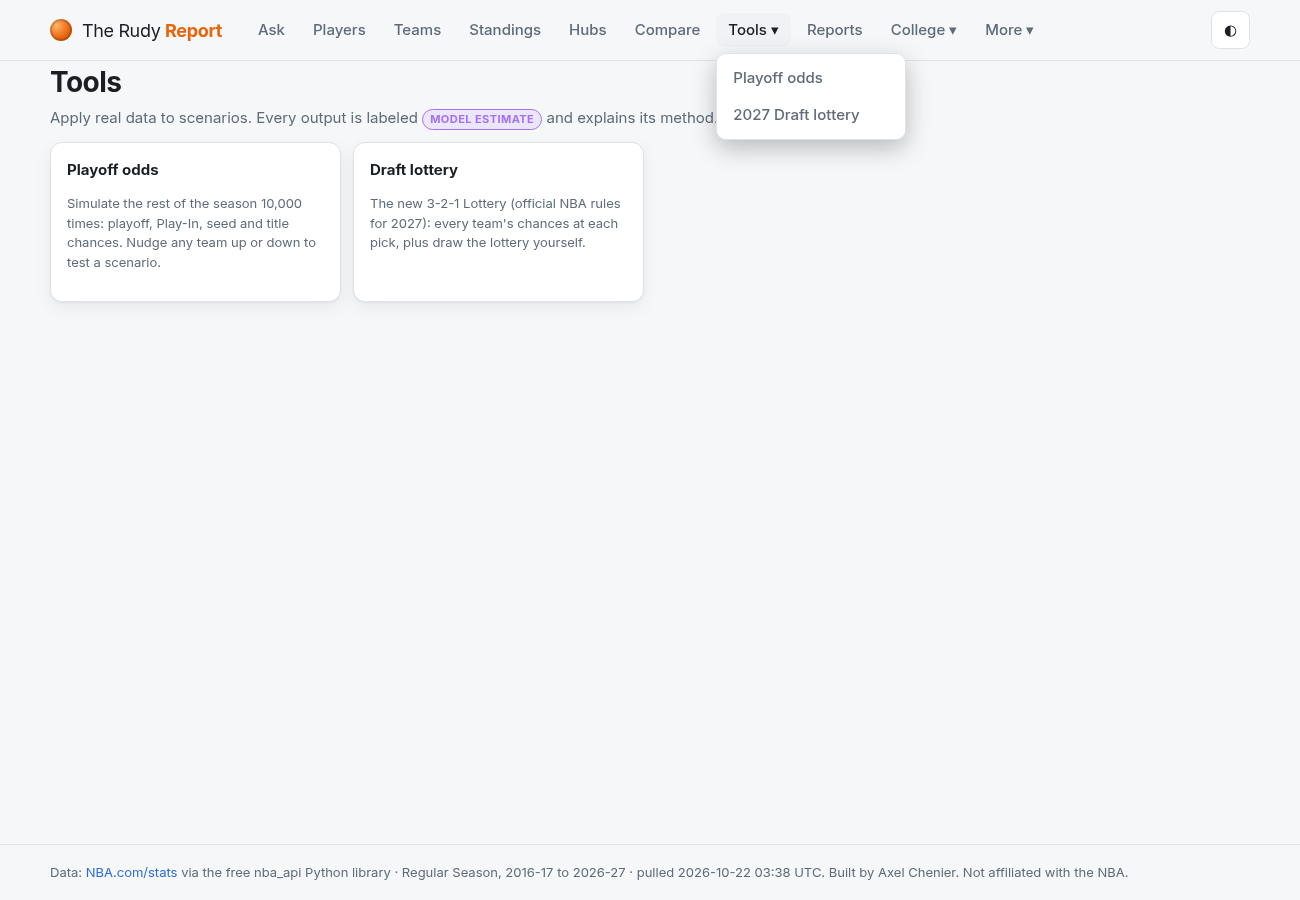
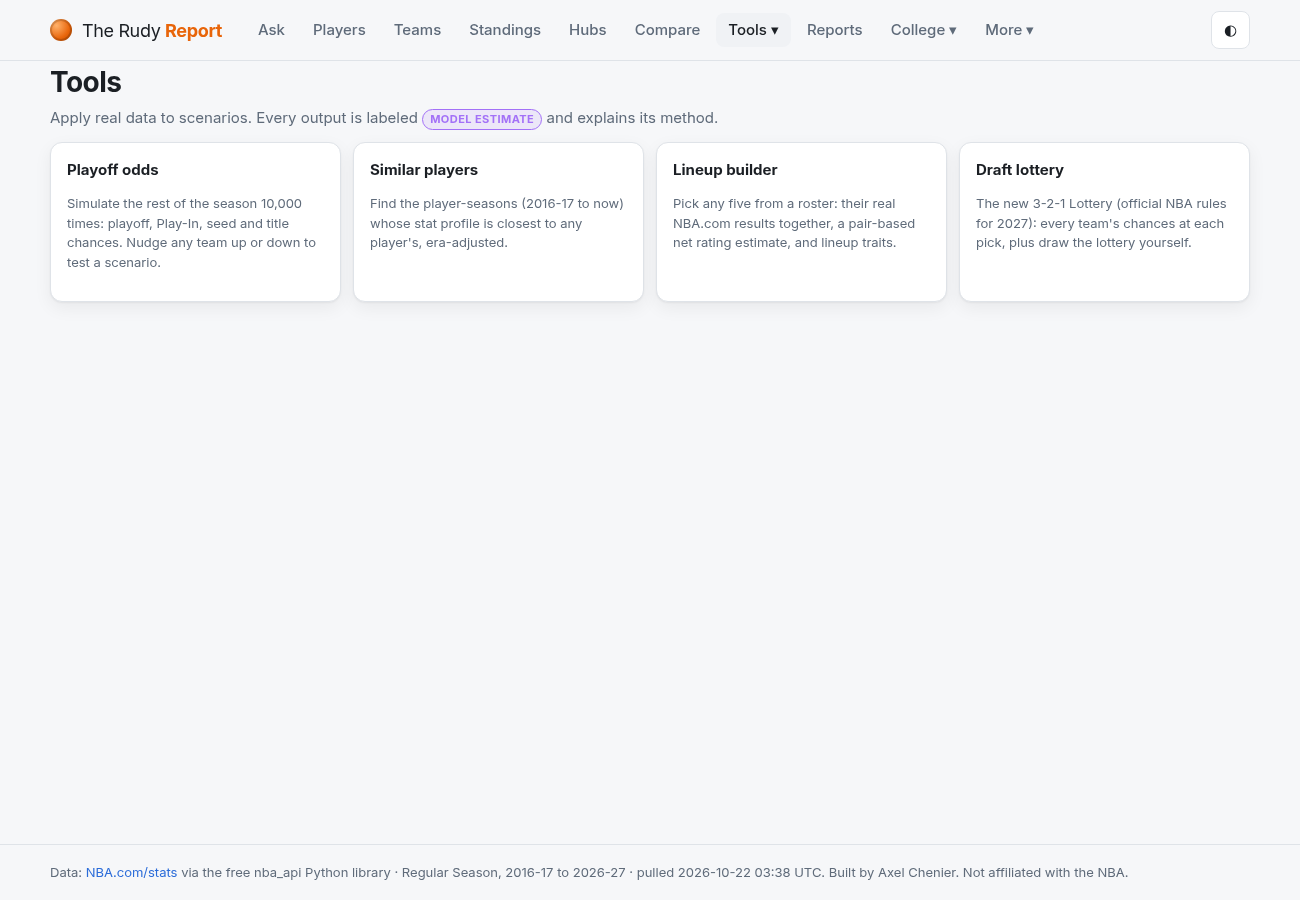
Lineup builder: any five from a roster, real NBA.com lineup results, pair-based net rating (Model estimate), lineup traits vs typical starting five

diff --git a/js/pages/builder.js b/js/pages/builder.js
@@ -1,0 +1,131 @@
+// builder.js - Lineup Builder (Tools page, #/tools/lineup). Pick any five players from a team's roster.
+//  - REAL: if NBA.com has that exact 5-man lineup (10+ minutes), its actual ratings are shown.
+//  - MODEL ESTIMATE: net rating estimated from the 10 two-man pairs inside it (NBA.com 2-man lineup data, 50+ minutes),
+//    each pair's net rating pulled toward the team's net rating by how few minutes it has; pairs with no data use the two
+//    players' on-court team net ratings (NBA.com on/off).
+//  - Lineup traits: sums/averages of the five players' real per-36 and rate stats, next to a typical NBA starting five.
+import { load, SEASONS, META } from "../data.js";
+import { fmt } from "../stats.js";
+import { esc, modelBadge, unpack } from "../ui.js";
+import { onOffRows } from "./lineups.js";
+
+const SHRINK = 300;          // minutes at which a pair's own net rating gets half the weight (the rest goes to the team's)
+const p36 = (p, k) => p.MIN ? p[k] / p.MIN * 36 : 0;
+const net = (v) => v == null ? "–" : `<span class="${v > 0 ? "pos" : v < 0 ? "neg" : ""}">${v > 0 ? "+" : ""}${v.toFixed(1)}</span>`;
+
+const TRAITS = [
+  ["Usage (sum of USG%)", (ps) => ps.reduce((a, p) => a + 100 * p.USG_PCT, 0), (v) => v.toFixed(0) + "%", "A real lineup's usage sums to about 100% (every possession ends with someone)."],
+  ["3PA per 36 (sum)", (ps) => ps.reduce((a, p) => a + p36(p, "FG3A"), 0), (v) => v.toFixed(1), "Spacing proxy: how many threes these five take per 36 minutes each."],
+  ["3P% (weighted)", (ps) => { const a = ps.reduce((s, p) => s + p.FG3A, 0); return a ? ps.reduce((s, p) => s + p.FG3M, 0) / a : 0; }, (v) => (100 * v).toFixed(1) + "%", ""],
+  ["True shooting % (avg)", (ps) => ps.reduce((a, p) => a + p.TS_PCT, 0) / ps.length, (v) => (100 * v).toFixed(1) + "%", ""],
+  ["Assists per 36 (sum)", (ps) => ps.reduce((a, p) => a + p36(p, "AST"), 0), (v) => v.toFixed(1), ""],
+  ["Turnovers per 36 (sum)", (ps) => ps.reduce((a, p) => a + p36(p, "TOV"), 0), (v) => v.toFixed(1), ""],
+  ["Rebounds per 36 (sum)", (ps) => ps.reduce((a, p) => a + p36(p, "REB"), 0), (v) => v.toFixed(1), ""],
+  ["Blocks per 36 (sum)", (ps) => ps.reduce((a, p) => a + p36(p, "BLK"), 0), (v) => v.toFixed(1), ""],
+  ["Steals per 36 (sum)", (ps) => ps.reduce((a, p) => a + p36(p, "STL"), 0), (v) => v.toFixed(1), ""],
+];
+
+export async function builderTool(box, params) {
+  const seasons = SEASONS();
+  const season = seasons.includes(params.get("season")) ? params.get("season") : META.default_season;
+  const [players, teams, lineupsRaw] = await Promise.all([load("players", season), load("teams", season),
+    fetch(`data/${season}/lineups.json`).then((r) => r.ok ? r.json() : null).catch(() => null)]);
+  if (!lineupsRaw) { box.innerHTML = `<p class="muted">No lineup data for ${esc(season)}.</p>`; return; }
+  const lineups = unpack(lineupsRaw);
+  const teamList = [...teams].sort((a, b) => a.TEAM_NAME.localeCompare(b.TEAM_NAME));
+  const teamId = +params.get("team") || teams.find((t) => t.TEAM_ABBREVIATION === "MIN")?.TEAM_ID || teamList[0].TEAM_ID;
+  const team = teams.find((t) => t.TEAM_ID === teamId) || teamList[0];
+  const roster = players.filter((p) => p.TEAM_ID === team.TEAM_ID).sort((a, b) => b.GP * b.MIN - a.GP * a.MIN);
+  const mine = lineups.filter((l) => l.TEAM_ID === team.TEAM_ID);
+  const onoff = await onOffRows(season, team.TEAM_ID).catch(() => []);
+  const onNet = new Map(onoff.map((r) => [r.PLAYER_ID, { net: r.ON_NET, min: r.ON_MIN }]));
+
+  // Typical NBA starting five: each team's five most-used players, trait averaged over teams.
+  const typical = TRAITS.map(([, f]) => {
+    const vals = teams.map((t) => players.filter((p) => p.TEAM_ID === t.TEAM_ID).sort((a, b) => b.GP * b.MIN - a.GP * a.MIN).slice(0, 5)).filter((ps) => ps.length === 5).map(f);
+    return vals.reduce((a, b) => a + b, 0) / vals.length;
+  });
+
+  let picked = (params.get("ids") || "").split(",").map(Number).filter((id) => roster.some((p) => p.PLAYER_ID === id));
+  if (picked.length !== 5) {
+    const top = mine.filter((l) => l.N === 5).sort((a, b) => b.MIN - a.MIN)[0];
+    picked = top ? top.GROUP_ID.split("-").map(Number).filter((id) => roster.some((p) => p.PLAYER_ID === id)) : roster.slice(0, 5).map((p) => p.PLAYER_ID);
+  }
+
+  box.innerHTML = `
+    <div class="page-head"><div><h1>Lineup builder</h1>
+      <p class="sub">${esc(season)} · pick any five players from one roster: real NBA.com results when that five actually played, plus a ${modelBadge("")} when it didn't.</p></div></div>
+    <div class="card toolbar sim-controls">
+      <label>Season <select id="lb-season">${seasons.map((s) => `<option ${s === season ? "selected" : ""}>${s}</option>`).join("")}</select></label>
+      <label>Team <select id="lb-team">${teamList.map((t) => `<option value="${t.TEAM_ID}" ${t.TEAM_ID === team.TEAM_ID ? "selected" : ""}>${esc(t.TEAM_NAME)}</option>`).join("")}</select></label>
+      <span class="muted small">Team net rating ${net(team.NET_RATING)} · ${roster.length} players</span></div>
+    <div class="lb-grid">
+      <div class="card"><h3>Roster <span class="muted small">(tick 5)</span></h3><div id="lb-roster" class="lb-roster">${roster.map((p) => `
+        <label><input type="checkbox" value="${p.PLAYER_ID}" ${picked.includes(p.PLAYER_ID) ? "checked" : ""}> ${esc(p.PLAYER_NAME)}
+          <span class="muted small">${p.GP} G · ${p.MIN.toFixed(1)} MPG</span></label>`).join("")}</div></div>
+      <div id="lb-out"></div>
+    </div>
+    <div class="card method"><b>${modelBadge("")} How the estimate works.</b>
+      <p class="small">A five-man lineup contains 10 two-man pairs. For each pair, NBA.com's 2-man lineup data (pairs with 50+ minutes) gives the team's net rating with both on the floor.
+      Each pair's number is pulled toward the team's season net rating: weight = minutes ÷ (minutes + ${SHRINK}), so small samples count less.
+      A pair with no data uses the average of the two players' on-court team net ratings (NBA.com on/off), with the same pull.
+      The estimate is the average of the 10 pair values. It's a simple heuristic: it ignores opponents, garbage time and how the five fit together beyond their pairs.
+      Traits are the real season stats of the five players; the "typical starting five" is each team's five most-used players, averaged over the league.</p>
+      <p class="muted small">Data: NBA.com/stats LeagueDashLineups (5-man and 2-man), TeamPlayerOnOffSummary, LeagueDashPlayerStats, via nba_api.</p></div>`;
+
+  const out = box.querySelector("#lb-out");
+  const go = (extra) => {
+    const p = new URLSearchParams({ season, team: team.TEAM_ID, ...extra });
+    location.hash = `#/tools/lineup?${p}`;
+  };
+  box.querySelector("#lb-season").addEventListener("change", (e) => go({ season: e.target.value, team: team.TEAM_ID }));
+  box.querySelector("#lb-team").addEventListener("change", (e) => go({ team: e.target.value }));
+
+  function draw() {
+    picked = [...box.querySelectorAll("#lb-roster input:checked")].map((i) => +i.value);
+    box.querySelectorAll("#lb-roster input").forEach((i) => { i.disabled = picked.length >= 5 && !i.checked; });
+    history.replaceState(null, "", `#/tools/lineup?season=${season}&team=${team.TEAM_ID}&ids=${picked.join(",")}`);
+    if (picked.length !== 5) { out.innerHTML = `<div class="card"><p class="muted">Pick ${5 - picked.length} more player${5 - picked.length === 1 ? "" : "s"}.</p></div>`; return; }
+    const ps = picked.map((id) => roster.find((p) => p.PLAYER_ID === id));
+    const key = [...picked].sort((a, b) => a - b).join("-");
+    const real = mine.find((l) => l.N === 5 && l.GROUP_ID.split("-").map(Number).sort((a, b) => a - b).join("-") === key);
+    const pairs = [];
+    for (let i = 0; i < 5; i++) for (let j = i + 1; j < 5; j++) {
+      const a = ps[i], b = ps[j];
+      const k2 = [a.PLAYER_ID, b.PLAYER_ID].sort((x, y) => x - y).join("-");
+      const pr = mine.find((l) => l.N === 2 && l.GROUP_ID.split("-").map(Number).sort((x, y) => x - y).join("-") === k2);
+      let raw, min, src;
+      if (pr) { raw = pr.NET_RATING; min = pr.MIN; src = "pair"; }
+      else {
+        const oa = onNet.get(a.PLAYER_ID), ob = onNet.get(b.PLAYER_ID);
+        if (oa && ob) { raw = (oa.net + ob.net) / 2; min = Math.min(oa.min, ob.min); src = "on/off"; } else { raw = team.NET_RATING; min = 0; src = "team"; }
+      }
+      const w = min / (min + SHRINK);
+      pairs.push({ a, b, raw, min, src, est: team.NET_RATING + (raw - team.NET_RATING) * w });
+    }
+    const est = pairs.reduce((s, p) => s + p.est, 0) / pairs.length;
+    const traits = TRAITS.map(([label, f, show, note], i) => ({ label, v: f(ps), t: typical[i], show, note }));
+    const usage = traits[0].v;
+    const flags = [];
+    if (usage > 115) flags.push(`Usage adds up to ${usage.toFixed(0)}%: more shot-creators than possessions, so someone would take fewer shots than usual.`);
+    if (usage < 88) flags.push(`Usage adds up to only ${usage.toFixed(0)}%: these five usually defer, so someone would have to create more than usual.`);
+    if (traits[1].v < traits[1].t * 0.8) flags.push(`3-point volume is ${Math.round(100 * (1 - traits[1].v / traits[1].t))}% below a typical starting five (spacing).`);
+    if (!ps.some((p) => p36(p, "BLK") >= 1.5)) flags.push("No one blocks 1.5+ shots per 36 minutes (rim protection, by box score).");
+    if (traits[4].v < traits[4].t * 0.8) flags.push("Passing (assists per 36) well below a typical starting five.");
+    out.innerHTML = `
+      <div class="grid stat-cards">
+        <div class="card stat-card"><div class="label">Estimated net rating ${modelBadge("pair-based estimate")}</div><div class="value">${net(est)}</div>
+          <div class="lgavg">team ${net(team.NET_RATING)} · per 100 possessions</div></div>
+        <div class="card stat-card"><div class="label">Actual (NBA.com)</div><div class="value">${real ? net(real.NET_RATING) : "–"}</div>
+          <div class="lgavg">${real ? `${Math.round(real.MIN)} min together · ORtg ${fmt(real.OFF_RATING, "OFF_RATING")} / DRtg ${fmt(real.DEF_RATING, "DEF_RATING")}${real.MIN < 100 ? " · small sample" : ""}` : "this five never played 10+ minutes together"}</div></div>
+      </div>
+      ${flags.length ? `<div class="callout">${flags.map((f) => `<p>• ${esc(f)}</p>`).join("")}<p class="muted small">Rule-based notes from the five players' real stats.</p></div>` : ""}
+      <div class="card"><h3>Lineup traits</h3><div class="table-wrap"><table class="data"><thead><tr><th class="left">Trait</th><th>These five</th><th>Typical starting five</th></tr></thead><tbody>
+        ${traits.map((t) => `<tr><td class="left" title="${esc(t.note)}">${esc(t.label)}</td><td><b>${t.show(t.v)}</b></td><td class="muted">${t.show(t.t)}</td></tr>`).join("")}</tbody></table></div></div>
+      <div class="card"><h3>The 10 pairs</h3><div class="table-wrap"><table class="data"><thead><tr><th class="left">Pair</th><th>Min</th><th>Net (raw)</th><th>Source</th><th>Used in estimate</th></tr></thead><tbody>
+        ${pairs.sort((x, y) => y.min - x.min).map((p) => `<tr><td class="left">${esc(p.a.PLAYER_NAME)} + ${esc(p.b.PLAYER_NAME)}</td><td>${Math.round(p.min)}</td><td>${net(p.raw)}</td>
+          <td class="small muted">${p.src === "pair" ? "2-man lineup" : p.src === "on/off" ? "avg of on/off (no pair data)" : "team (no data)"}</td><td>${net(p.est)}</td></tr>`).join("")}</tbody></table></div></div>`;
+  }
+  box.querySelector("#lb-roster").addEventListener("change", draw);
+  draw();
+}

diff --git a/js/pages/tools.js b/js/pages/tools.js
@@ -1,17 +1,20 @@
 // tools.js - the Tools page: scenario tools that apply real data to "what happens if" questions.
 //   #/tools/odds     Playoff Odds simulator (Monte Carlo over the real remaining schedule)  - MODEL ESTIMATE
 //   #/tools/similar  Player similarity finder (js/pages/similar.js)
+//   #/tools/lineup   Lineup builder (js/pages/builder.js)
 //   #/tools/lottery  2027 Draft Lottery simulator: the NBA's official 3-2-1 rules (js/lottery.js) on simulated final standings
 // Data: NBA.com/stats (standings, team stats, game logs) and NBA.com's schedule (ScheduleLeagueV2), saved by the pipeline.
 import { load, META, completeSeasons } from "../data.js";
 import { renderTable, esc, modelBadge } from "../ui.js";
 import { prepare, simulate, rng } from "../sim.js";
 import { similarTool } from "./similar.js";
+import { builderTool } from "./builder.js";
 import { draw, entriesFrom, checkOdds, GROUPS, OFFICIAL, LOTTERY_SOURCES, FLOOR } from "../lottery.js";
 
 const TOOLS = [
   ["odds", "Playoff odds", "Simulate the rest of the season 10,000 times: playoff, Play-In, seed and title chances. Nudge any team up or down to test a scenario."],
   ["similar", "Similar players", "Find the player-seasons (2016-17 to now) whose stat profile is closest to any player's, era-adjusted."],
+  ["lineup", "Lineup builder", "Pick any five from a roster: their real NBA.com results together, a pair-based net rating estimate, and lineup traits."],
   ["lottery", "Draft lottery", "The new 3-2-1 Lottery (official NBA rules for 2027): every team's chances at each pick, plus draw the lottery yourself."],
 ];
 
@@ -22,7 +25,7 @@ export async function toolsPage(app, tool = "", query = "") {
       <div class="grid tool-cards">${TOOLS.map(([k, l, d]) => `<a class="card tool-card" href="#/tools/${k}"><h3>${esc(l)}</h3><p class="muted small">${esc(d)}</p></a>`).join("")}</div>`;
     return;
   }
-  const page = { odds: oddsTool, lottery: lotteryTool, similar: similarTool }[tool];
+  const page = { odds: oddsTool, lottery: lotteryTool, similar: similarTool, lineup: builderTool }[tool];
   if (!page) { app.innerHTML = `${tabs}<p class="muted">Unknown tool.</p>`; return; }
   app.innerHTML = `${tabs}<div id="tool"></div>`;
   await page(app.querySelector("#tool"), new URLSearchParams(query));

diff --git a/css/style.css b/css/style.css
@@ -321,3 +321,6 @@ input[type=range] { vertical-align: middle; accent-color: var(--accent); }
 .pick-heat i { width: 9px; height: 14px; border-radius: 2px; background: var(--accent); }
 .sim-table tr.me td { background: color-mix(in srgb, var(--accent) 10%, transparent); }
 .sim-table td, .sim-table th { padding-left: 6px; padding-right: 6px; }
+.lb-grid { display: grid; grid-template-columns: 300px 1fr; gap: 12px; align-items: start; }
+.lb-roster label { display: flex; gap: 8px; align-items: baseline; padding: 4px 0; flex-wrap: wrap; }
+@media (max-width: 860px) { .lb-grid { grid-template-columns: 1fr; } }

diff --git a/index.html b/index.html
@@ -39,6 +39,7 @@
             <a href="#/tools/odds">Playoff odds</a>
             <a href="#/tools/lottery">2027 Draft lottery</a>
             <a href="#/tools/similar">Similar players</a>
+            <a href="#/tools/lineup">Lineup builder</a>
           </div>
         </div>
         <a href="#/reports" data-nav="reports">Reports</a>
